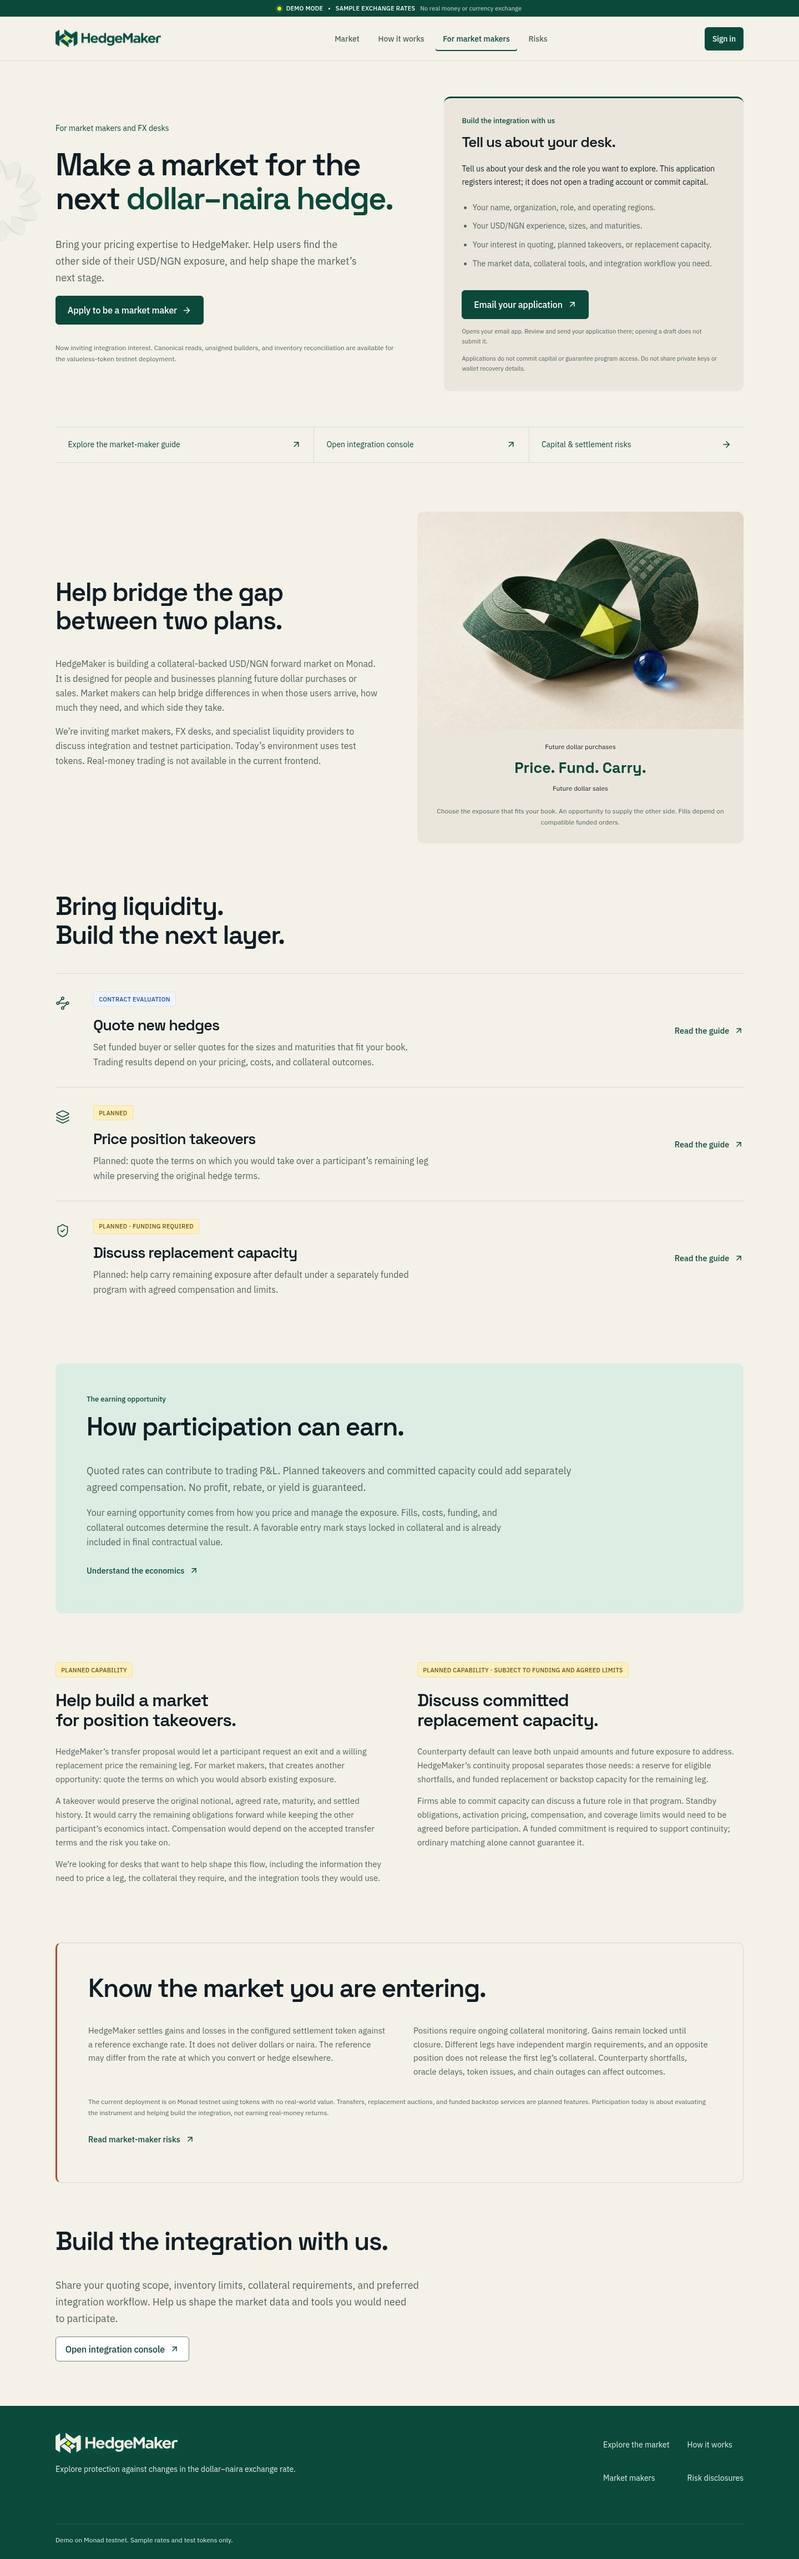
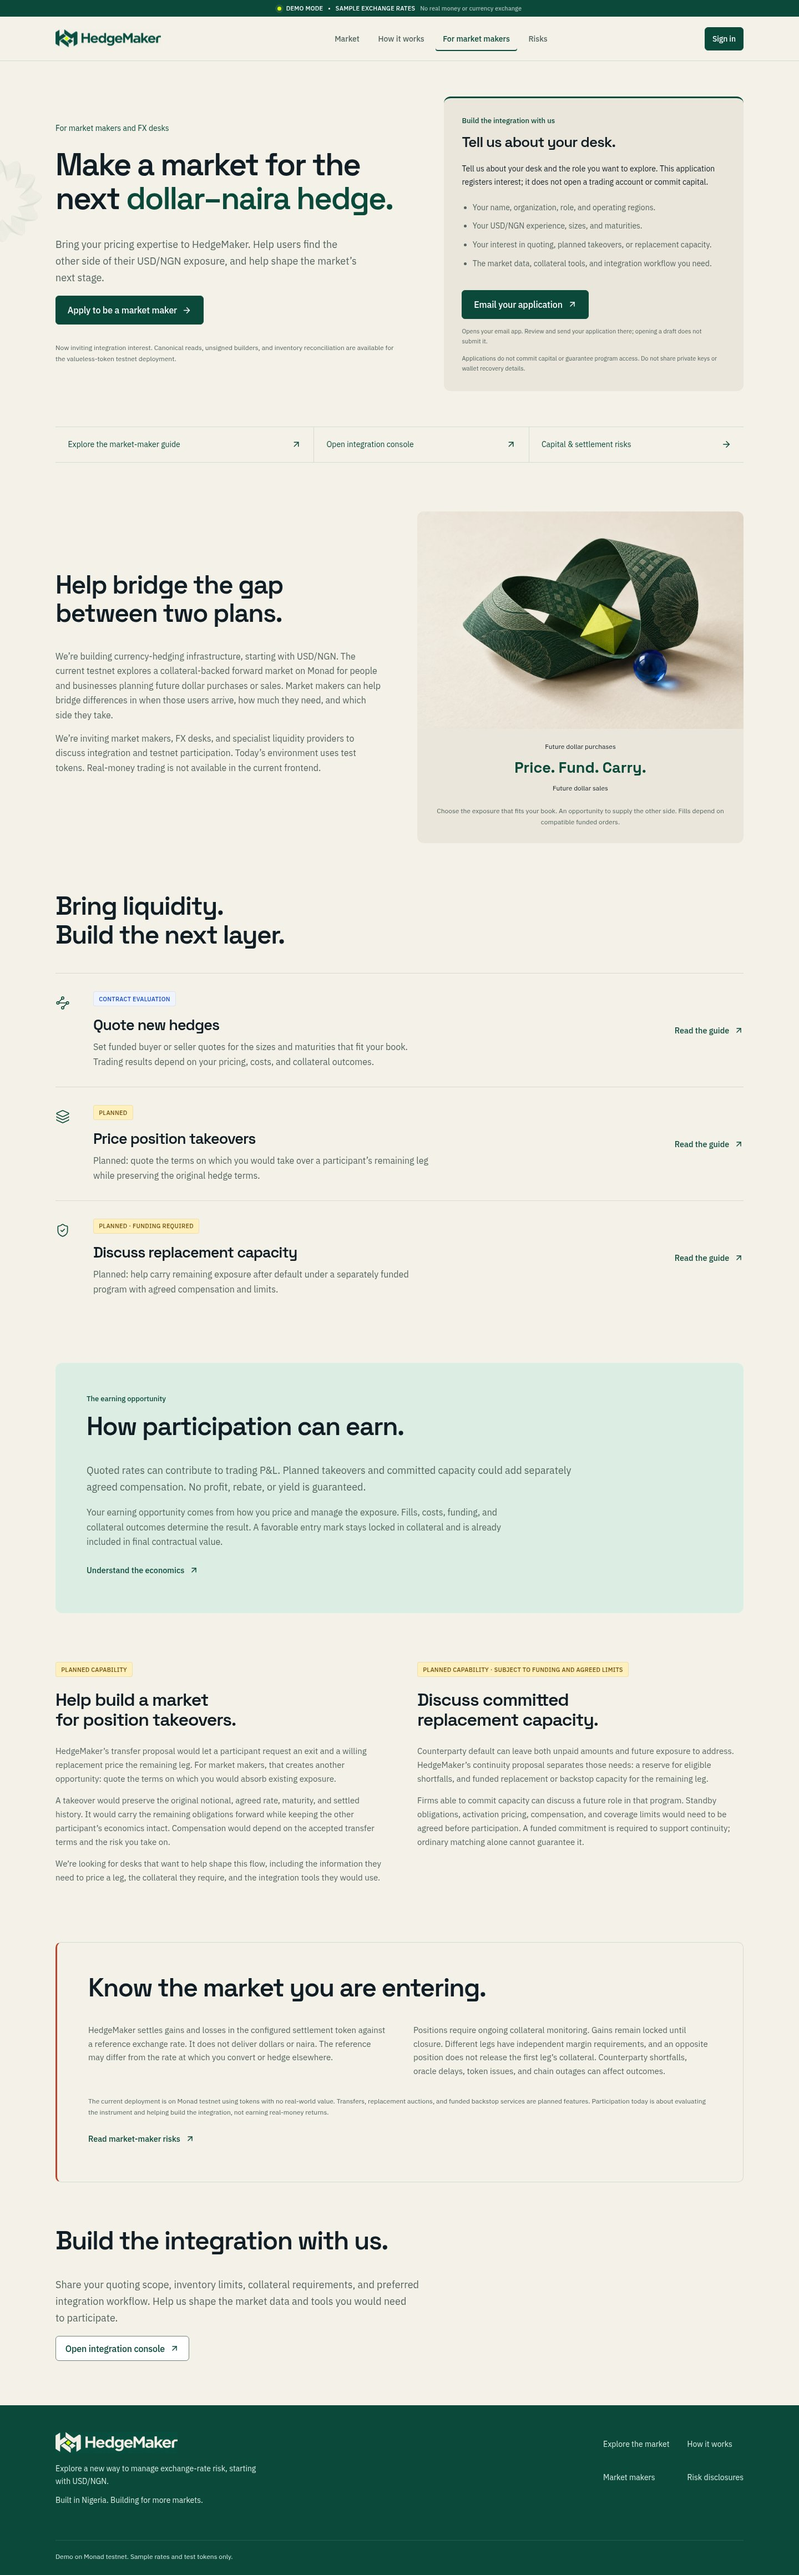
copy: align frontend voice with market and brand research

diff --git a/src/pages/LandingPage.tsx b/src/pages/LandingPage.tsx
@@ -49,12 +49,12 @@ export function LandingPage() {
     <div className="landing-page brand-marketing">
       <PageMetadata
         title="HedgeMaker | Hedge the rate. Keep the plan."
-        description="Explore protection for future dollar purchases or sales in HedgeMaker’s USD/NGN testnet demo. Protection is limited to the funds backing each hedge."
+        description="Explore a new way to manage exchange-rate risk, starting with USD/NGN. HedgeMaker’s testnet demo uses sample rates and test tokens; protection is limited to the funds backing each hedge."
       />
       <section className="brand-hero page-shell" aria-labelledby="home-title">
         <div className="brand-hero__copy">
           <span className="brand-kicker">
-            Your plans, with a little more control.
+            Currency risk. More control.
           </span>
           <h1 id="home-title">
             Hedge the rate.
@@ -62,8 +62,8 @@ export function LandingPage() {
             <span>Keep the plan.</span>
           </h1>
           <p>
-            Plan ahead for dollar–naira rate changes. Explore protection for
-            future dollar purchases or sales.
+            Explore a new way to manage exchange-rate risk, starting with
+            USD/NGN.
           </p>
           <div className="brand-actions">
             <Link className="hm-button hm-button--lg" to="/market">

diff --git a/src/content/marketMakers.ts b/src/content/marketMakers.ts
@@ -62,7 +62,7 @@ export const marketMakerRelease = {
 export const marketMakerCopy = {
   heading: 'Make a market for the next dollar–naira hedge.',
   lead: 'Bring your pricing expertise to HedgeMaker. Help users find the other side of their USD/NGN exposure, and help shape the market’s next stage.',
-  introduction: 'HedgeMaker is building a collateral-backed USD/NGN forward market on Monad. It is designed for people and businesses planning future dollar purchases or sales. Market makers can help bridge differences in when those users arrive, how much they need, and which side they take.',
+  introduction: 'We’re building currency-hedging infrastructure, starting with USD/NGN. The current testnet explores a collateral-backed forward market on Monad for people and businesses planning future dollar purchases or sales. Market makers can help bridge differences in when those users arrive, how much they need, and which side they take.',
   apply: 'Apply to be a market maker',
   guide: 'Explore the market-maker guide',
   homeHeading: 'Are you a market maker? Help shape USD/NGN liquidity.',

diff --git a/index.html b/index.html
@@ -5,7 +5,7 @@
     <meta name="viewport" content="width=device-width, initial-scale=1" />
     <meta
       name="description"
-      content="Explore hedging changes in the dollar-to-naira rate with HedgeMaker’s testnet demo. Protection is limited to the funds set aside for each hedge."
+      content="Explore a new way to manage exchange-rate risk, starting with USD/NGN. HedgeMaker’s testnet demo uses sample rates and test tokens. Protection is limited to the funds backing each hedge."
     />
     <meta name="theme-color" content="#f4f1e8" />
     <link rel="icon" type="image/svg+xml" href="/favicon.svg" />

diff --git a/src/app/AppShell.tsx b/src/app/AppShell.tsx
@@ -104,7 +104,8 @@ export function AppShell() {
           <Link className="brand brand--footer" to="/" aria-label="HedgeMaker home">
             <BrandLogo dark />
           </Link>
-          <p>Explore protection against changes in the dollar–naira exchange rate.</p>
+          <p>Explore a new way to manage exchange-rate risk, starting with USD/NGN.</p>
+          <p className="site-footer__origin">Built in Nigeria. Building for more markets.</p>
         </div>
         <div className="site-footer__links">
           <Link to="/market">Explore the market</Link>

diff --git a/docs/redesign/README.md b/docs/redesign/README.md
@@ -14,6 +14,8 @@ The audited interface used serif headings, a generic H mark, a tilted quote pane
 | Cloaked | Human context through image cards | Nigerian entrepreneur and creative-workspace imagery, plus a risk-focused still life; readable copy below photographs |
 | Gumloop Enterprise | Direct participation/contact split with clear resources | Market-maker copy beside the existing application handoff; compact role rows; retained economics, planned capabilities, and capital-risk sections |
 
+The [market and brand research](../market-and-brand-research.md#brand-marketing-and-nigerian-identity) also guides the company voice: “Currency risk. More control.” opens the hero, the original tagline remains its headline, supporting copy says “starting with USD/NGN,” the footer states Nigerian origin and broader-market ambition, and the market-maker introduction explains the infrastructure direction alongside the current testnet scope. Expansion candidates remain research rather than advertised availability.
+
 The buyer/seller image links lead to their respective example; the seller uses `/market?side=seller`, preserving the existing route. Marketing visuals contain no invented rates, clients, testimonials, or guaranteed outcomes. The interactive learning example calls the existing BigInt `buyerPayoffRaw` calculation, explicitly labels calculated values, and retains the original formula and worked examples.
 
 ## Taste Skill review
@@ -50,3 +52,7 @@ Browser checks of protected pages used an isolated local demo-auth preview with 
 - [Artwork provenance and originals](images/manifest.json)
 
 The favicon is an SVG container around the selected raster symbol, not a traced vector master. Exact vector, transparent, and monochrome logo masters remain future asset work; the frontend uses the existing chosen artwork.
+
+## Brand-copy follow-up
+
+Applied the market/brand research positioning to the hero's opening line and support, the shared footer, homepage metadata, and the market-maker/guide introduction. The original hero tagline and product-page headline remain. Lint and the production build were re-run; [copy review results](copy-review.json) cover the revised surfaces at five viewport widths. Review screenshots were refreshed.

diff --git a/design.md b/design.md
@@ -217,3 +217,15 @@ Motion uses native CSS transforms and a small React state layer. No scroll hijac
 Market, overview, positions, wallet, guide, and integration retain their working components and disclosures. Shared branding and compact product headings improve consistency; mobile table-label containment and card shrinking fix narrow-screen overflow. The learning example calls the existing BigInt payoff function and separates calculated value from available funds.
 
 See [the implementation review](docs/redesign/README.md), [browser results](docs/redesign/browser-review.json), and [desktop hero](docs/redesign/screenshots/home-hero.png). This branch is for review before merge. Canonical reads, real authentication, and transactions require their own environment verification; the visual review uses local demo authentication and sends no transactions.
+
+
+### Market and brand research: copy direction
+
+The [Brand, marketing and Nigerian identity section](docs/market-and-brand-research.md#brand-marketing-and-nigerian-identity) guides the company voice: currency-risk management is the broader promise; Nigeria is the origin; USD/NGN is the first product focus.
+
+- Opening brand line: **Currency risk. More control.** The hero retains **Hedge the rate. Keep the plan.** as its action-oriented headline.
+- Hero support and company description: **Explore a new way to manage exchange-rate risk, starting with USD/NGN.** The visible demo status and limits remain alongside this message.
+- Origin and ambition: **Built in Nigeria. Building for more markets.** Appears in the footer as company intent, not a list of available markets.
+- Partner narrative: **We’re building currency-hedging infrastructure, starting with USD/NGN.** The introduction then describes the current Monad testnet instrument and market-maker role.
+
+Product examples retain their concrete buyer/seller goals and USD/NGN context. Expansion candidates remain research, and no additional market, SDK, API, guaranteed payout, or real-money capability is advertised by this copy update.

diff --git a/docs/market-and-brand-research.md b/docs/market-and-brand-research.md
@@ -120,3 +120,9 @@ Primary sources establish that benchmarks, competing products and certain regula
 Some official sites served only search-indexed content or dynamically loaded pages. No production feed was connected, and no legal framework was treated as complete solely because an old warning or a consultation document was available. Dates matter: Kenya's cited document is a March 2026 draft notice; Egypt's warnings are from 2022/2023; Bangladesh's cited prohibition is from 2022; Pakistan's cited change is from April 2026. Verify subsequent instruments during country diligence.
 
 The decision I recommend now is to retain HedgeMaker, establish a general currency-risk brand with Nigerian origin, keep USD/NGN as the first product and acquisition focus, and use Ghana/Kenya discovery to choose the first expansion. Leave the detailed claim of universal currency coverage for when the product can substantiate it.
+
+## Copy implementation follow-up, 6 October 2026
+
+Following the requested copy review, the frontend review branch applies the currency-risk positioning: “Currency risk. More control.” opens the hero, “Explore a new way to manage exchange-rate risk, starting with USD/NGN.” supports the existing tagline, and the footer states “Built in Nigeria. Building for more markets.” The shared market-maker introduction now begins with the currency-hedging infrastructure mission and immediately describes the current Monad testnet scope.
+
+The existing market headline, routes, buyer/seller explanations, demo status, and risk disclosures remain. Additional-market availability and future SDK/API claims are not introduced. See [design.md](../design.md#market-and-brand-research-copy-direction) for the implementation decision and [the redesign review](redesign/README.md) for validation.
